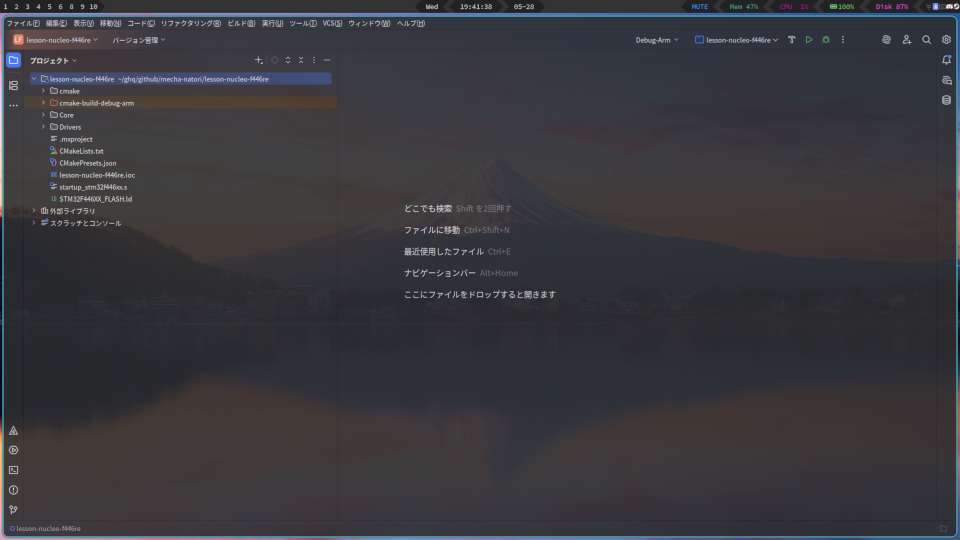
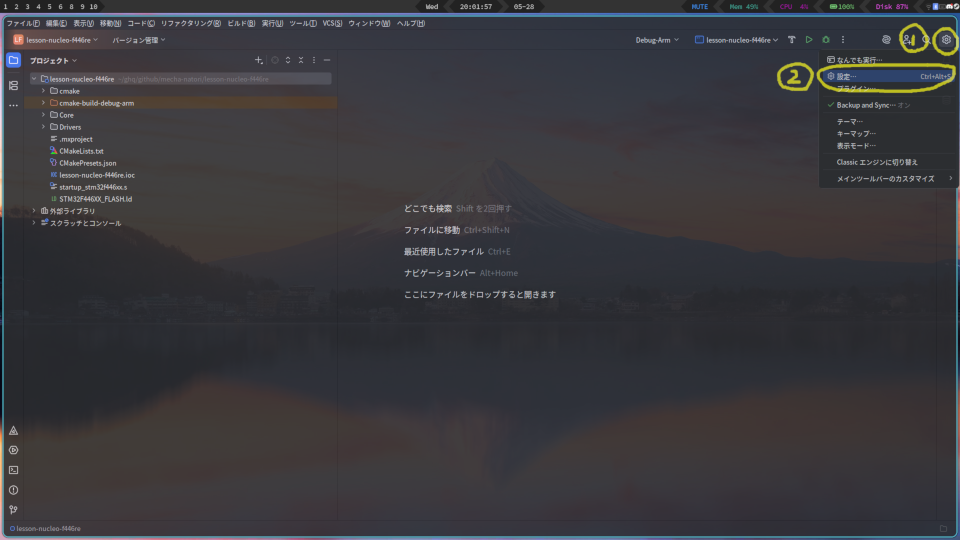
feature: 制御講習/ロボット制御入門: OpenOCD設定を追記。

Changed region(s): [[0.8125, 0.0296, 1.0, 0.3556], [0.0312, 0.1185, 0.3438, 0.1778]]

diff --git a/lessons/program/intro/4.md b/lessons/program/intro/4.md
@@ -59,15 +59,33 @@ Toolchainのヤツを使うので、コヤツのインストール先にある`a
 
 これで下準備は完了したのでOK(②)で閉じます。
 
-![CLionのエディタ画面]
+## OpenOCD
 
-プロジェクトのロードで右下にプログレスバーやら通知やらゴチャゴチャ出ます。\
-収まったらロード完了です。何か言ってきたら筆者か[Issue]に殴り込んで下さい。
+さて、初期設定を済ませたいのでもうひと頑張りします。\
+基板に実行ファイル書き込むためのソフトであるOpenOCDの場所をCLionに教えてやらねばなりません。
+
+![CLionのエディタ画面、設定を開く]
+
+設定は右上の歯車(①)を押して出てくるメニューにいます。「設定」(②)を押します。
+
+![CLionの設定画面、組み込み開発設定]
+
+CLionの設定はいくつかのカテゴリに分かれています。\
+目的の場所は「ビルド、実行、デプロイ」(①)の中の「組み込み開発」(②)にあります。
+
+各種ツールの場所を指定する欄が現れるのでOpenOCDの実行ファイルの場所を③にぶち込みます。Windowsなら`openocd.exe`、それ以外なら`openocd`の場所ですね。
+
+すぐ下にCubeMXの場所を指定する欄(④)もあります。空欄にしといてもいいですが、ここで指定しておくとCLion上で`.ioc`を開くとCubeMXが立ち上がってくれるようになります。
+
+終わったら⑤で閉じて下さい。これで多分全部済みました。
 
 ## 次回予告
 
 今回はプロジェクトをCLionで開いて、ついでに初期設定まで行いました。\
-これはあくまで初期設定なので、次新しくプロジェクト作るって時はCMake部分の設定だけで済みます。\
+これはあくまで初期設定なので、次新しくプロジェクト作るって時はCMake部分の設定だけで済みます。
+
+あと、設定は項目がいっぱいあるので自分好みにカスタマイズしとくと捗ります。
+
 次回はゴールにはあまり関係はないですが、エアシリンダーを動かします。
 
 [前へ](3)・[次へ](5)
@@ -76,8 +94,8 @@ Toolchainのヤツを使うので、コヤツのインストール先にある`a
 
 [clionのcmakeプロジェクト初回ロード時に出る画面]: /assets/lessons/program/project-open-2.png
 [clionのcmakeプロジェクト初回ロード時に出る画面、ツールチェーンを変更]: /assets/lessons/program/project-open-5.png
-[clionのエディタ画面]: /assets/lessons/program/project-open-6.png
+[clionのエディタ画面、設定を開く]: /assets/lessons/program/project-open-6.png
 [clionのツールチェーン管理画面、ツールチェーンを編集]: /assets/lessons/program/project-open-4.png
 [clionのツールチェーン管理画面、ツールチェーンを追加]: /assets/lessons/program/project-open-3.png
 [clionのプロジェクトを開く画面]: /assets/lessons/program/project-open-1.png
-[issue]: https://github.com/mecha-natori/mecha-natori.github.io/issues
+[clionの設定画面、組み込み開発設定]: /assets/lessons/program/project-open-7.png

diff --git a/lessons/program/intro/2-win.md b/lessons/program/intro/2-win.md
@@ -48,7 +48,9 @@ CLionに付いてくるみたいです。なのでインスコはしなくてお
 [openocd-org/openocd]の`openocd-v***.***.***-i686-w64-mingw32.tar.gz`みたいな名前のヤツを落として下さい。\
 **その場にぶちまけられるのでちゃんと空っぽのディレクトリを`C:\`直下にでも用意してから展開して下さい。(ここ重要)**
 
-...展開したらその中の`bin`を「設定」→「システム」→「バージョン情報」→「システムの詳細設定」→「環境変数」から環境変数`Path`に追加して完了です。
+~~...展開したらその中の`bin`を「設定」→「システム」→「バージョン情報」→「システムの詳細設定」→「環境変数」から環境変数`Path`に追加して完了です。~~
+
+こっちも例によってPath追加はしなくていいっぽいけど、インストーｒ(ry
 
 ### STM32CubeMX
 
